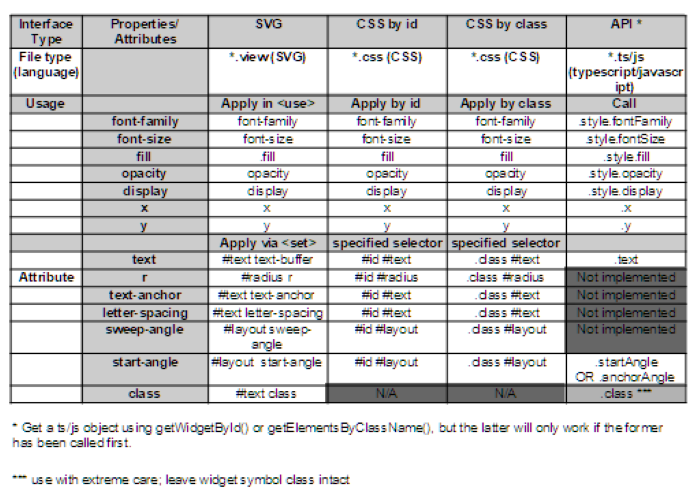
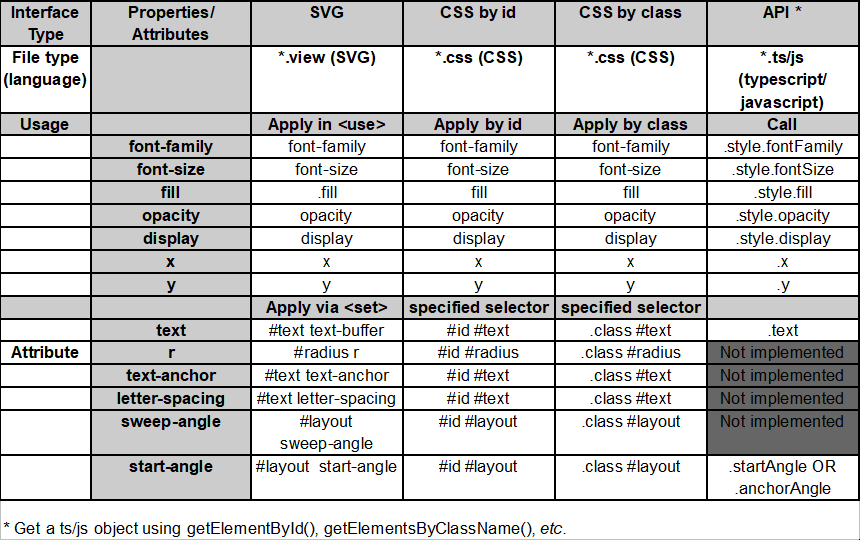
doco updated to simplified factory

diff --git a/app/widgets/widget-factory.ts b/app/widgets/widget-factory.ts
@@ -7,6 +7,9 @@ export const widgetFactory = (...args) => {
   // Constructs widgets of specified type(s).
   // args: optionally an ElementSearch element within which to search for widgets, followed by one or more functions that return {name:nameString, construct:constructorFunction}
   // If an ElementSearch element isn't provided, the whole of document will be searched.
+  // Examples:
+  //    widgetFactory(curvedText, barGraph);  // creates all curvedText and barGraph widgets in document
+  //    widgetFactory(myInnerGroup, curvedText, barGraph);  // creates all curvedText and barGraph widgets in myInnerGroup
   // widgetFactory is a closure, so its internal variables and functions are not directly accessible to external code.
 
   let searchElement = document;
@@ -17,13 +20,13 @@ export const widgetFactory = (...args) => {
     firstWidgetIndex = 1;
   }
 
-  // Construct widgets:
+  // Construct widgets of all types specified in args:
   for (let i = firstWidgetIndex; i < args.length; i++) {
     const widgetRego = args[i]();   // get the registration info for this widget
-    const instances = searchElement.getElementsByTypeName(widgetRego.name); // this picks up widgets within widgets
-    instances.forEach(el => {
+    const instances = searchElement.getElementsByTypeName(widgetRego.name); // warning: this picks up widgets within widgets
+    instances.forEach(el => {   // construct all widgets of this type
       el.class = el.class; // This shouldn't do anything, but seems to cause CSS rules to be reapplied. Without it, CSS selectors such as "#id #radius" don't work.
-      widgetRego.construct(el);
+      widgetRego.construct(el); // construct a widget instance by adding properties and functions to el
     });
   }
 }

diff --git a/doco/usage.md b/doco/usage.md
@@ -24,7 +24,7 @@ In your `/resources/index.view` file, include `<use>` elements for every instanc
 
 See detailed documentation below, and examples in this repository.
 
->**Note:** Unlike most Fitbit elements and components, widgets won't be visible just because you've included them in your `.view` file. Widgets need some internal code to be executed to lay them out, and this doesn't happen until you get a reference to them using `document.getWidgetById()` in your code (see below).
+>**Note:** Unlike most Fitbit elements and components, widgets won't be visible just because you've included them in your `.view` file. Widgets need some internal code to be executed to lay them out, and this doesn't happen until the `widgetFactory` is told about them (see below).
 
 /app/index.js (or .ts)\
 Imports and setup
@@ -38,22 +38,19 @@ If you haven't already got an `import` statement for `document`, add that too.
 
 In your `/app/index.js` (or `.ts`) start-up code:
 
-* Create a variable for a `widgetFactory` object, and tell it about curved-text widgets, like this:
-> `const widgets = widgetFactory([curvedText]);`
+* tell the `widgetFactory` object to construct all curved-text widgets, like this:
+> `widgetFactory(curvedText);`
 
-* Use the ```widgetFactory``` object to add a `getWidgetById()` function to your `document` variable, like this:
-> `widgets.registerContainer(document);`\
-
->**Note:** You can also add `getWidgetById()`to other container elements, such as `svg`, `section` and `g`. To do so, use `getElementById()` to get an object for the container element, then pass that to `registerContainer()`. You can call `registerContainer()` multiple times, or pass multiple arguments in one call. You don't have to use it on the `document` object if you always intend to get widgets from within subordinate container elements.
+* ...or, if your widgets are all located within a child element called `myGroupElement`, you can use this form:
+> `widgetFactory(myGroupElement, curvedText);`
 
 In order to use `curved-text` and `widget-factory` in your typescript project, please follow the additional instructions here: [typescript_interface](typescript.md).
 
 Your code
 =
-Now, elsewhere in your `/app/index.js` (or `.ts`) file, you can get objects that correspond to the curved-text `<use>` elements in your `index.view` file, like this:
->`const myLabel = document.getWidgetById('myLabel');`\
->`const myClass = document.getElementsByClassName('myClass');`\
->**Note:** Accessing widgets by className requires that each widget has been previously created using `.getWidgetById()`. Hopefully this limitation will be fixed in future.)
+Anywhere in your `/app/index.js` (or `.ts`) file, you can get objects that correspond to the curved-text `<use>` elements in your `index.view` file in the normal way:
+>`const myLabel = document.getElementById('myLabel');`\
+>`const myClass = document.getElementsByClassName('myClass');`
 
 In your code, use your widget object(s) to interact with the corresponding curved-text element; *eg*:
 
@@ -89,8 +86,7 @@ This table summarises the properties and settings that are available, and where 
 Limitations
 =
 * 'getters' are not implemented for API properties (text, startAngle, anchorAngle). Therefore, those properties are write-only.
-* The widget inherits behaviour from GraphicsElement. While this provides a lot of capability without requiring additional code in the widget, it also means that some standard GraphicsElement functions (eg, getBBox) may not work as expected.
+* The widget inherits behaviour from GraphicsElement. While this provides a lot of capability without requiring additional code in the widget, it also means that some standard GraphicsElement functions (*eg*, getBBox) may not work as expected.
+* Rotating the widget by placing it within a `<g>` will result in layout errors. For best results, use the `.anchorAngle` property.
 * The code targets SDK5. It will require the standard modifications to work in earlier SDKs.
 * The factory and curved-text widget have not been testing in a dynamic GUI (ie, using `document.location` manipulation).
-* Changing a `curved-text`'s `className` using `.class` will need great care. The `className` must start with the widget's class type identifier, or it will be invisible to the `widget-factory` and may not get necessary styles applied.
-* Calling `getWidgetById()` multiple times on the same element will result in an error.

diff --git a/doco/how-to-widget.md b/doco/how-to-widget.md
@@ -4,7 +4,7 @@ A widget is a reusable (usually visible) component. This makes it possible to in
 
 This document assumes that you've already got a project that's suitable for widgetting, probably comprising a visual component comprising multiple SVG elements, and some JavaScript (or TypeScript) code to make it display correctly.
 
-The approach taken here is to use the document-factory object. This makes the use of the widget more 'normal' for the calling code (*ie*, more like using a built-in element or component).
+The approach taken here is to use a `widget-factory` object. This makes the use of the widget more 'normal' for the calling code (*ie*, more like using a built-in [element](https://dev.fitbit.com/build/guides/user-interface/svg/) or [component](https://dev.fitbit.com/build/guides/user-interface/svg-components/)).
 
 SVG
 -
@@ -14,7 +14,7 @@ Within that folder, create a file called `index.view` for the widget's elements.
 
 Place all of the elements within a `<symbol>`, which is itself within  a `<defs>` ([example](../resources/widgets/curved-text/index.view)).
 
-The `id` and `class` of the `<symbol>` must both be the name of your widget.
+The `id` and `type` of the `<symbol>` must both be the name of your widget.
 
 Optionally, you can include non-visible elements that can be used to capture attributes for your widget within `.view` and `.css` files. This means that static widgets can be declared completely in SVG and CSS, and minimises the amount of JavaScript code required to use widgets. In the [curved-text widget](../resources/widgets/curved-text/index.view), the elements with id `text`, `radius` and `layout` perform this role.
 
@@ -38,13 +38,12 @@ Create a folder for your widget's executable files under `/app/widgets`. Within 
 
 Most of your widget's code goes in the `construct` function. This function:
 * takes a Fitbit [GraphicsElement](https://dev.fitbit.com/build/reference/device-api/document/#interface-graphicselement) as an argument (*eg*, what you get when calling `getElementById`)
-* adds your widget API functions to it
-* if necessary, performs an initial layout of the elements within the widget
-* returns the modified element so that other code can access its API functions.
+* adds your widget API properties and functions to it
+* if necessary, performs an initial layout of the elements within the widget.
 
 Rather than using a JavaScript class, the widget's code is implemented as a [closure](https://developer.mozilla.org/en-US/docs/Web/JavaScript/Closures). This avoids [issues with 'this' reference inconsistency](https://www.digitalocean.com/community/conceptual_articles/understanding-this-bind-call-and-apply-in-javascript), supports private variables and functions, and obviates the need to use `new` to instantiate instances (which would be inconsistent with normal Fitbit coding practice).
 
-Because your widget is based on a Fitbit `GraphicsElement` object, you won't need to write as much code as you would otherwise. Your widget will automatically inherit properties and functions from `GraphicsElement`, such as `x` and `style`. If those aren't suitable, you can override them. (Be careful if you do this, because Fitbit OS might access the replacement members in your widget, and it will expect them to perform consistently with the members they're replacing.)
+Because your widget is just a modified Fitbit `GraphicsElement` object, you won't need to write as much code as you would otherwise. Your widget will automatically inherit properties and functions from `GraphicsElement`, such as `x` and `style`. If those aren't suitable, you can override them. (Be careful if you do this, because Fitbit OS might access the replacement members in your widget, and it will expect them to perform consistently with the members they're replacing.)
 
 You don't need to provide a JavaScript API for all of your widget's properties. Ideally, they should all be settable in SVG and/or CSS. You only need to provide JavaScript APIs for those properties that need to be changed at run-time.
 
@@ -56,4 +55,4 @@ Use private variables and functions within your code to keep the public interfac
 
 Installation
 -
-To connect all of the bits of your widget together, adapt the usage instructions from [here](usage.md). 
+To connect all of the bits of your widget together, adapt the usage instructions from [here](usage.md).

diff --git a/doco/typescript.md b/doco/typescript.md
@@ -1,34 +1,14 @@
 typescript interfaces
 -
 
-Use the following imports to obtain widget-specific interfaces and type definitions (in addition to the objects themselves):
+Use the following import to obtain a widget-specific interface (type definition), in addition to the widget object itself:
 
-`import { WidgetSearch, WidgetDocumentModule, WidgetElementSearch, widgetFactory } from './widgets/widget-factory'`\
 `import { CurvedTextWidget, curvedText } from './widgets/curved-text'`
-
-The widgetFactory object implements the `WidgetFactory` interface, and can be declared to be of that type.
 
 You can declare curved-text widgets to be of the appropriate type like this:
 
-`let classx: CurvedTextWidget;`
+`let myLabel1: CurvedTextWidget;`
 
-You can typecast the `document` object to access the widget system:
+Alternatively, you can specify their type when you get an object that represents them:
 
-`classx = (document as WidgetDocumentModule).getWidgetById('classxId') as CurvedTextWidget;`
-
-You can avoid saying `(document as WidgetDocumentModule).getWidgetById` like this:
-
-`const widgetDocument = document as WidgetDocumentModule;`\
-`classx = widgetDocument.getWidgetById('classxId');`
-
-If you do this, you can use `widgetDocument` to access document properties as normal; eg:
-
-`const myElement = widgetDocument.getElementsByClassName('sectionId');`
-
-Using `getWidgetById()` on a non-document element:
-
-`const sectionEl = document.getElementById('sectionId') as WidgetElementSearch;`\
-`widgets.registerContainer(sectionEl);   // adds getWidgetById() to sectionEl`\
-`classx = sectionEl.getWidgetById('classxId');`
-
-The `WidgetSearch` interface is where `getWidgetById()` is actually declared. `WidgetDocumentModule` and `WidgetElementSearch` simply add that interface to the standard interfaces for the `document` object and `Element` objects. If you need more control than this, you can add the `WidgetSearch` interface to other container types.
+`let myLabel1 = document.getElementById("myLabel1") as CurvedTextWidget;`

diff --git a/doco/snippets.md b/doco/snippets.md
@@ -49,10 +49,6 @@ sweep-angle:
 >`<use id="myLabel" href="#curvedText" fill="white" >`
 >>`<set href="#layout" attributeName="sweep-angle" to="20"/></use>`
 
-class:
->`<use id="myLabel" href="#curvedText" >`
->>`<set href="#text" attributeName="class" to="classx"/></use>`
-
 CSS
 ___________________
 
@@ -133,16 +129,16 @@ x,y:
 >`myLabel.y = 50;`
 
 r:
-> `not appliable here`
+> `not applicable here`
 
 text-anchor:
-> `not appliable here`
+> `not applicable here`
 
 letter-spacing:
-> `not appliable here`
+> `not applicable here`
 
 start-angle:
-> `myLabel.startAngle`
+> `myLabel.startAngle` OR `myLabel.anchorAngle`
 
 sweep-angle:
-> `not appliable here`
+> `not applicable here`
